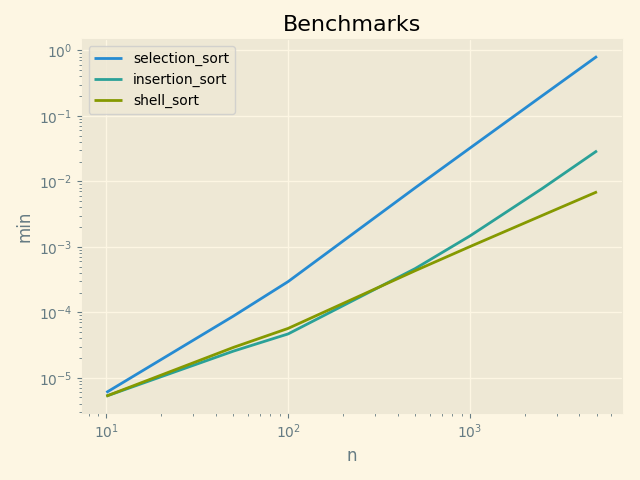
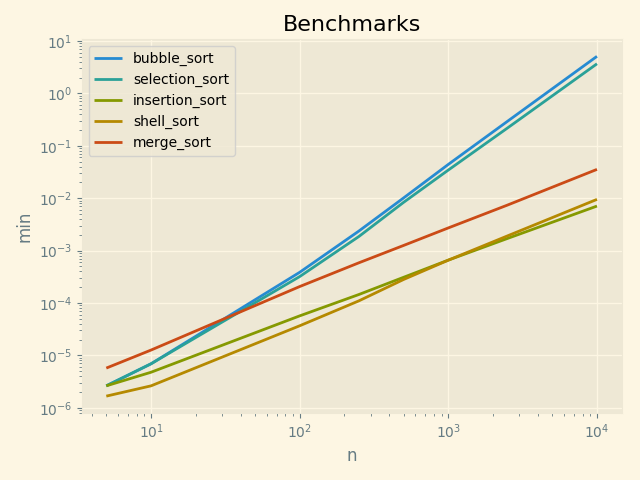
Add merge sort

diff --git a/benchmarks/sorts/benchmark_sorts.py b/benchmarks/sorts/benchmark_sorts.py
@@ -4,26 +4,28 @@ from script_benchmark_tools.run_benchmarks import run_benchmarks
 from script_benchmark_tools.script import Script
 from terminal_table import Table
 
-from algorithms.sort.bubble_sort import not_bubble_sort, bubble_sort
+from algorithms.sort.bubble_sort import bubble_sort
 from algorithms.sort.insertion_sort import insertion_sort
+from algorithms.sort.merge_sort import merge_sort
 from algorithms.sort.selection_sort import selection_sort
 from algorithms.sort.shell_sort import shell_sort
 from benchmarks.providers.random_list_provider import RandomListProvider
 
 
 def run_scripts_with_n_random_list(scripts, n):
-    arr_provider = RandomListProvider(n, 0, 1000)
+    arr_provider = RandomListProvider(n, 0, n)
     return n, run_benchmarks(scripts, arr_provider, 100)
 
 
 if __name__ == '__main__':
 
     all_scripts = (
-        Script(not_bubble_sort, 'sarcoma'),
+        # Script(not_bubble_sort, 'sarcoma'),
         Script(bubble_sort, 'geeks_for_geeks'),
         Script(selection_sort, 'sarcoma'),
         Script(insertion_sort, 'sarcoma'),
         Script(shell_sort, 'sarcoma'),
+        Script(merge_sort, 'sarcoma'),
     )
 
     print('Proofs\n------')
@@ -42,7 +44,7 @@ if __name__ == '__main__':
 
     title = 'Benchmarks'
     benchmarks = map(lambda n: run_scripts_with_n_random_list(all_scripts, n),
-                     [10, 50, 100, 500, 1000, 2500, 5000])
+                     [5, 10, 100, 250, 500, 1000, 2500, 10000])
     results = [(n, result) for n, result in benchmarks]
 
     display_benchmark_plot(results, title, loglog=True)

diff --git a/algorithms/sort/merge_sort.py b/algorithms/sort/merge_sort.py
@@ -1,0 +1,36 @@
+from random import shuffle
+
+
+def merge_sort(arr):
+    if len(arr) == 1:
+        return arr
+
+    mid = len(arr) // 2
+
+    left = merge_sort(arr[:mid])
+    right = merge_sort(arr[mid:])
+
+    return merge(left, right)
+
+
+def merge(left, right):
+    result = []
+    while len(left) and len(right):
+        if left[0] < right[0]:
+            result.append(left.pop(0))
+        else:
+            result.append(right.pop(0))
+
+    return result + left + right
+
+
+if __name__ == '__main__':
+    print(merge([1, 4], [2, 3, 5]))
+    unsorted_list = [6, 3, 1, 2, 5, 4, 8, 9, 10]
+    print(merge_sort(unsorted_list))
+    print(unsorted_list)
+
+    long_unsorted_list = [x for x in range(101)]
+    shuffle(long_unsorted_list)
+    print(merge_sort(long_unsorted_list))
+    print(long_unsorted_list)

diff --git a/benchmarks/sorts/results/selection_vs_insertion_vs_shell.md b/benchmarks/sorts/results/selection_vs_insertion_vs_shell.md
@@ -1,71 +1,92 @@
 Proofs
 ------
-|  Input               |  Output              |  Script          |  User     |
-|----------------------|----------------------|------------------|-----------|
-|  [6, 3, 1, 2, 5, 4]  |  [1, 2, 3, 4, 5, 6]  |  selection_sort  |  sarcoma  |
-|  [6, 3, 1, 2, 5, 4]  |  [1, 2, 3, 4, 5, 6]  |  insertion_sort  |  sarcoma  |
-|  [6, 3, 1, 2, 5, 4]  |  [1, 2, 3, 4, 5, 6]  |  shell_sort      |  sarcoma  |
-
-Plot
-----
-
-![Log Log Plot](plots/selection_vs_insertion_vs_shell_loglog.png)
+|  Input               |  Output              |  Script          |  User             |
+|----------------------|----------------------|------------------|-------------------|
+|  [6, 3, 1, 2, 5, 4]  |  [1, 2, 3, 4, 5, 6]  |  bubble_sort     |  geeks_for_geeks  |
+|  [6, 3, 1, 2, 5, 4]  |  [1, 2, 3, 4, 5, 6]  |  selection_sort  |  sarcoma          |
+|  [6, 3, 1, 2, 5, 4]  |  [1, 2, 3, 4, 5, 6]  |  insertion_sort  |  sarcoma          |
+|  [6, 3, 1, 2, 5, 4]  |  [1, 2, 3, 4, 5, 6]  |  shell_sort      |  sarcoma          |
+|  [6, 3, 1, 2, 5, 4]  |  [1, 2, 3, 4, 5, 6]  |  merge_sort      |  sarcoma          |
 
 Benchmarks
 ----------
 
+N = 5
+------
+|  min          |  avg          |  max          |  func            |  name             |
+|---------------|---------------|---------------|------------------|-------------------|
+|  0.000001669  |  0.000002308  |  0.000003815  |  shell_sort      |  sarcoma          |
+|  0.000002623  |  0.000003214  |  0.000006199  |  bubble_sort     |  geeks_for_geeks  |
+|  0.000002623  |  0.000003269  |  0.000004292  |  selection_sort  |  sarcoma          |
+|  0.000002623  |  0.000003526  |  0.000005007  |  insertion_sort  |  sarcoma          |
+|  0.000005722  |  0.000008593  |  0.000224113  |  merge_sort      |  sarcoma          |
+
 N = 10
 ------
-|  min          |  avg          |  max          |  func            |  name     |
-|---------------|---------------|---------------|------------------|-----------|
-|  0.000005245  |  0.000005476  |  0.000006914  |  insertion_sort  |  sarcoma  |
-|  0.000005245  |  0.000005701  |  0.000018120  |  shell_sort      |  sarcoma  |
-|  0.000005960  |  0.000006473  |  0.000011683  |  selection_sort  |  sarcoma  |
-
-N = 50
-------
-|  min          |  avg          |  max          |  func            |  name     |
-|---------------|---------------|---------------|------------------|-----------|
-|  0.000025511  |  0.000025902  |  0.000032902  |  insertion_sort  |  sarcoma  |
-|  0.000029087  |  0.000029533  |  0.000040770  |  shell_sort      |  sarcoma  |
-|  0.000087500  |  0.000090308  |  0.000140429  |  selection_sort  |  sarcoma  |
+|  min          |  avg          |  max          |  func            |  name             |
+|---------------|---------------|---------------|------------------|-------------------|
+|  0.000002623  |  0.000003331  |  0.000005722  |  shell_sort      |  sarcoma          |
+|  0.000004768  |  0.000005844  |  0.000006914  |  insertion_sort  |  sarcoma          |
+|  0.000006914  |  0.000007129  |  0.000011921  |  bubble_sort     |  geeks_for_geeks  |
+|  0.000006914  |  0.000007195  |  0.000008345  |  selection_sort  |  sarcoma          |
+|  0.000012636  |  0.000014596  |  0.000063896  |  merge_sort      |  sarcoma          |
 
 N = 100
 ------
-|  min          |  avg          |  max          |  func            |  name     |
-|---------------|---------------|---------------|------------------|-----------|
-|  0.000046730  |  0.000048876  |  0.000078440  |  insertion_sort  |  sarcoma  |
-|  0.000056744  |  0.000060437  |  0.000115633  |  shell_sort      |  sarcoma  |
-|  0.000294209  |  0.000322647  |  0.000482321  |  selection_sort  |  sarcoma  |
+|  min          |  avg          |  max          |  func            |  name             |
+|---------------|---------------|---------------|------------------|-------------------|
+|  0.000036716  |  0.000038257  |  0.000100136  |  shell_sort      |  sarcoma          |
+|  0.000056744  |  0.000084758  |  0.000318289  |  insertion_sort  |  sarcoma          |
+|  0.000205755  |  0.000214212  |  0.000453949  |  merge_sort      |  sarcoma          |
+|  0.000319004  |  0.000352058  |  0.000874996  |  selection_sort  |  sarcoma          |
+|  0.000384808  |  0.000395584  |  0.000666142  |  bubble_sort     |  geeks_for_geeks  |
+
+N = 250
+------
+|  min          |  avg          |  max          |  func            |  name             |
+|---------------|---------------|---------------|------------------|-------------------|
+|  0.000109673  |  0.000113287  |  0.000215054  |  shell_sort      |  sarcoma          |
+|  0.000144958  |  0.000149248  |  0.000264883  |  insertion_sort  |  sarcoma          |
+|  0.000583887  |  0.000624926  |  0.001363993  |  merge_sort      |  sarcoma          |
+|  0.001852751  |  0.001932108  |  0.002985954  |  selection_sort  |  sarcoma          |
+|  0.002354860  |  0.002496519  |  0.004284143  |  bubble_sort     |  geeks_for_geeks  |
 
 N = 500
 ------
-|  min          |  avg          |  max          |  func            |  name     |
-|---------------|---------------|---------------|------------------|-----------|
-|  0.000431538  |  0.000456047  |  0.000565529  |  shell_sort      |  sarcoma  |
-|  0.000464916  |  0.000497224  |  0.000648975  |  insertion_sort  |  sarcoma  |
-|  0.007962704  |  0.008335862  |  0.013140917  |  selection_sort  |  sarcoma  |
+|  min          |  avg          |  max          |  func            |  name             |
+|---------------|---------------|---------------|------------------|-------------------|
+|  0.000280619  |  0.000287602  |  0.000404119  |  shell_sort      |  sarcoma          |
+|  0.000308990  |  0.000316534  |  0.000415087  |  insertion_sort  |  sarcoma          |
+|  0.001251936  |  0.001329808  |  0.002884150  |  merge_sort      |  sarcoma          |
+|  0.008317947  |  0.008507025  |  0.010019779  |  selection_sort  |  sarcoma          |
+|  0.010092020  |  0.010577414  |  0.018337727  |  bubble_sort     |  geeks_for_geeks  |
 
 N = 1000
 ------
-|  min          |  avg          |  max          |  func            |  name     |
-|---------------|---------------|---------------|------------------|-----------|
-|  0.001006842  |  0.001058760  |  0.001222849  |  shell_sort      |  sarcoma  |
-|  0.001463890  |  0.001522036  |  0.001635075  |  insertion_sort  |  sarcoma  |
-|  0.032132149  |  0.032556100  |  0.037361145  |  selection_sort  |  sarcoma  |
+|  min          |  avg          |  max          |  func            |  name             |
+|---------------|---------------|---------------|------------------|-------------------|
+|  0.000656128  |  0.000682478  |  0.001034975  |  shell_sort      |  sarcoma          |
+|  0.000657797  |  0.000767622  |  0.001209974  |  insertion_sort  |  sarcoma          |
+|  0.002705812  |  0.002931468  |  0.005685806  |  merge_sort      |  sarcoma          |
+|  0.034403086  |  0.035281854  |  0.042567730  |  selection_sort  |  sarcoma          |
+|  0.044088602  |  0.045382817  |  0.079620123  |  bubble_sort     |  geeks_for_geeks  |
 
 N = 2500
 ------
-|  min          |  avg          |  max          |  func            |  name     |
-|---------------|---------------|---------------|------------------|-----------|
-|  0.003020763  |  0.003181493  |  0.003371716  |  shell_sort      |  sarcoma  |
-|  0.007767916  |  0.007960534  |  0.008136988  |  insertion_sort  |  sarcoma  |
-|  0.202460766  |  0.209702542  |  0.294028521  |  selection_sort  |  sarcoma  |
+|  min          |  avg          |  max          |  func            |  name             |
+|---------------|---------------|---------------|------------------|-------------------|
+|  0.001702070  |  0.001764033  |  0.002031088  |  insertion_sort  |  sarcoma          |
+|  0.001905918  |  0.002006137  |  0.003891945  |  shell_sort      |  sarcoma          |
+|  0.007379055  |  0.007645414  |  0.010596275  |  merge_sort      |  sarcoma          |
+|  0.218074083  |  0.221836834  |  0.239096880  |  selection_sort  |  sarcoma          |
+|  0.292782068  |  0.302283475  |  0.549839973  |  bubble_sort     |  geeks_for_geeks  |
 
-N = 5000
+N = 10000
 ------
-|  min          |  avg          |  max          |  func            |  name     |
-|---------------|---------------|---------------|------------------|-----------|
-|  0.006912231  |  0.007103693  |  0.007475853  |  shell_sort      |  sarcoma  |
-|  0.029220343  |  0.029722197  |  0.030239820  |  insertion_sort  |  sarcoma  |
-|  0.810655594  |  0.819665184  |  0.860674620  |  selection_sort  |  sarcoma  |
+|  min          |  avg          |  max          |  func            |  name             |
+|---------------|---------------|---------------|------------------|-------------------|
+|  0.007064819  |  0.007378571  |  0.010682106  |  insertion_sort  |  sarcoma          |
+|  0.009480953  |  0.009832015  |  0.013384104  |  shell_sort      |  sarcoma          |
+|  0.035406113  |  0.036646729  |  0.042468786  |  merge_sort      |  sarcoma          |
+|  3.664767027  |  3.717983198  |  4.017564774  |  selection_sort  |  sarcoma          |
+|  5.086323023  |  5.231633472  |  8.905994892  |  bubble_sort     |  geeks_for_geeks  |
